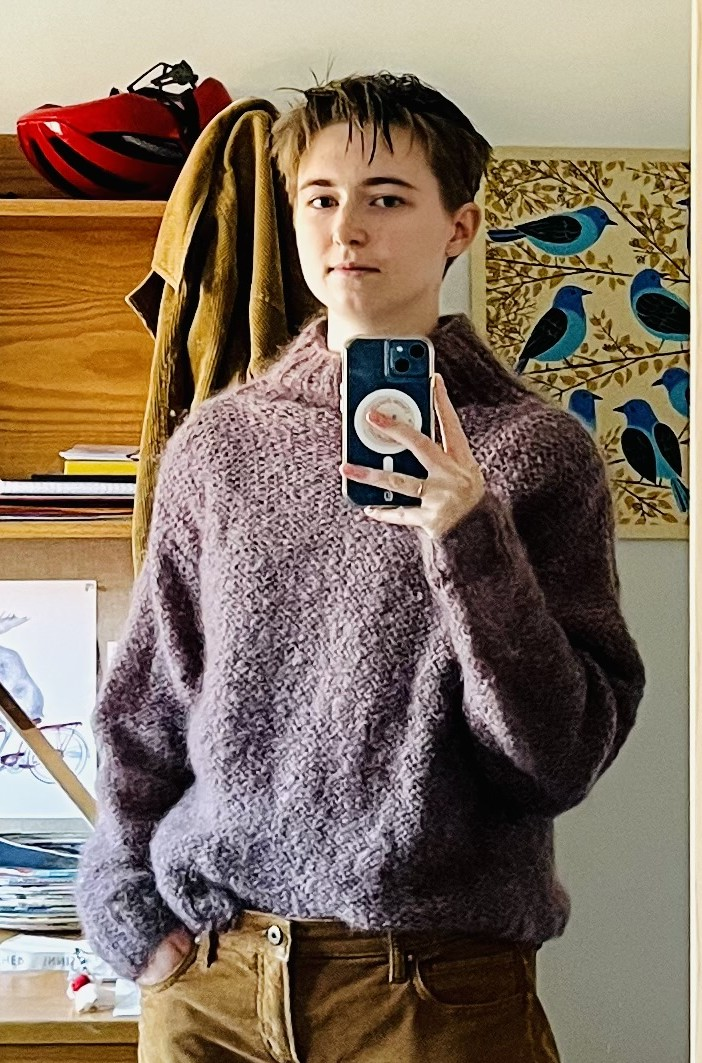
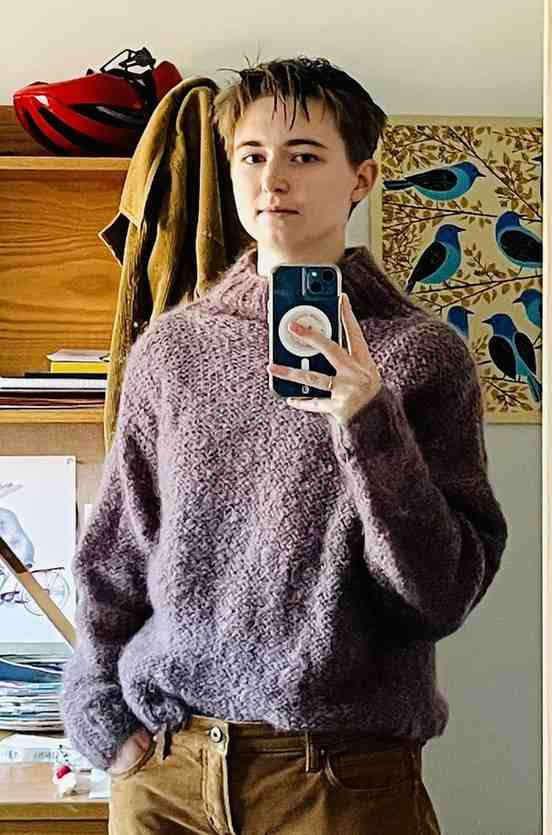
compressed images and added responsive design

diff --git a/index.html b/index.html
@@ -72,7 +72,8 @@
 		<img src="/images/me.jpg" height="250">
 		<img src="/images/kennedy.jpg" height="250">
 		<img src="/images/bike.jpg" height="250">
-		<img src="/images/monster.png" height="250">
+		<img src="/images/monster.jpeg" height="250">
+		<br>
 		Images: me, me at Kennedy station, me finishing a cyclocross race (almost four years ago now!!), me as the Monster in
 		"Frankenstein's Monster Learns to Cook" (2025)
 	</div>

diff --git a/style.css b/style.css
@@ -98,3 +98,22 @@ img {
     margin-left:1%;
     margin-right:1%;
 }
+
+@media (max-width: 600px) {
+    .flex-container {
+        display: flex;
+        gap: 1%;
+        flex-flow: column wrap;
+        width: 100%;
+    }
+    .left-column {
+        position: relative;
+        width: 100%;
+    }
+
+    .right-column {
+        position: relative;
+        padding-left: 0%;
+        width: 100%;
+    }
+}
